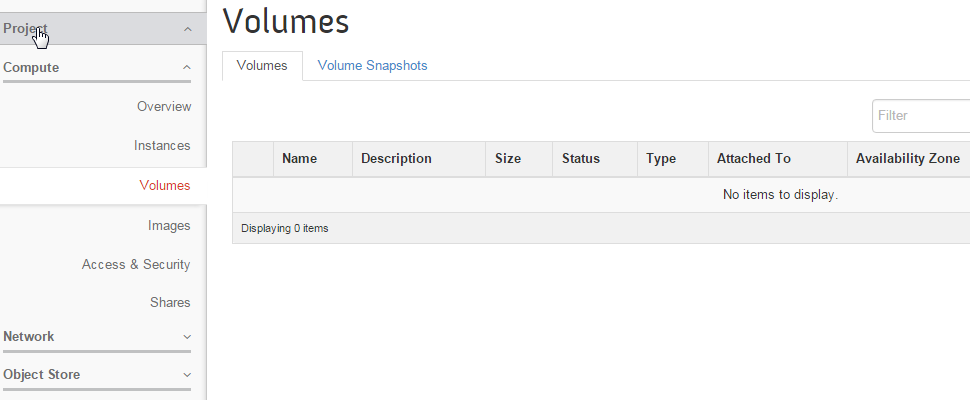
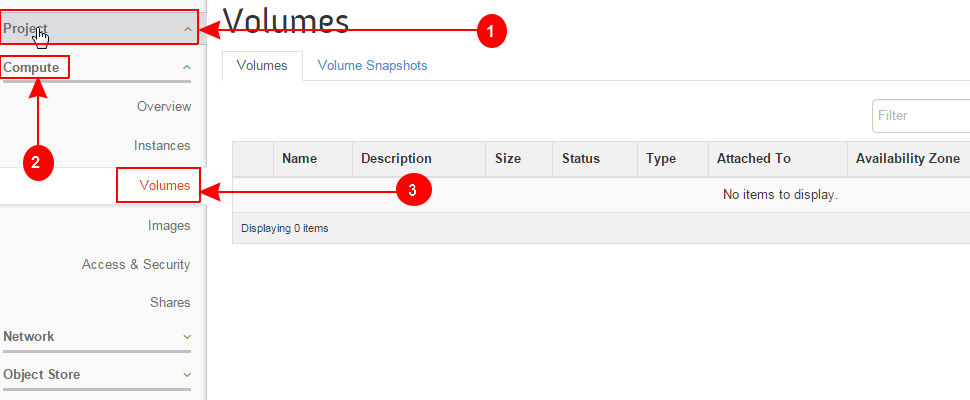
day2

diff --git a/source/day2.rst b/source/day2.rst
@@ -27,9 +27,23 @@ Below are the learning objectives for today:
 7. 	Terminating a VM instance
 
 
+A disk volume is a block storage device that you can connect to an instance as a persistant storage. Disk volumes can be attached to instances while the instance is running.
+Similarly they can be detached in the same manner. 
+
+A disk volume resembles a physical hard disk in practical life.  You can attach and format it as you format a physical disk. You can create a filesystem over it , mount it on a mount point and store data on it.
+
+You can have the disk volume even if you distroy the instance and its root disk.  This make it possible to keep data on a volume even if you no longer need to keep the VM instance.
+
+Let's create a new disk volume.
+
+	1. Goto  'Project'  and then 'Compute' and 'Volumes'
 |image1|
+	2. Next select 'Create Volume'  on the right top of the page.
 
 |image2|
+
+
+
 
 |image3|
 
